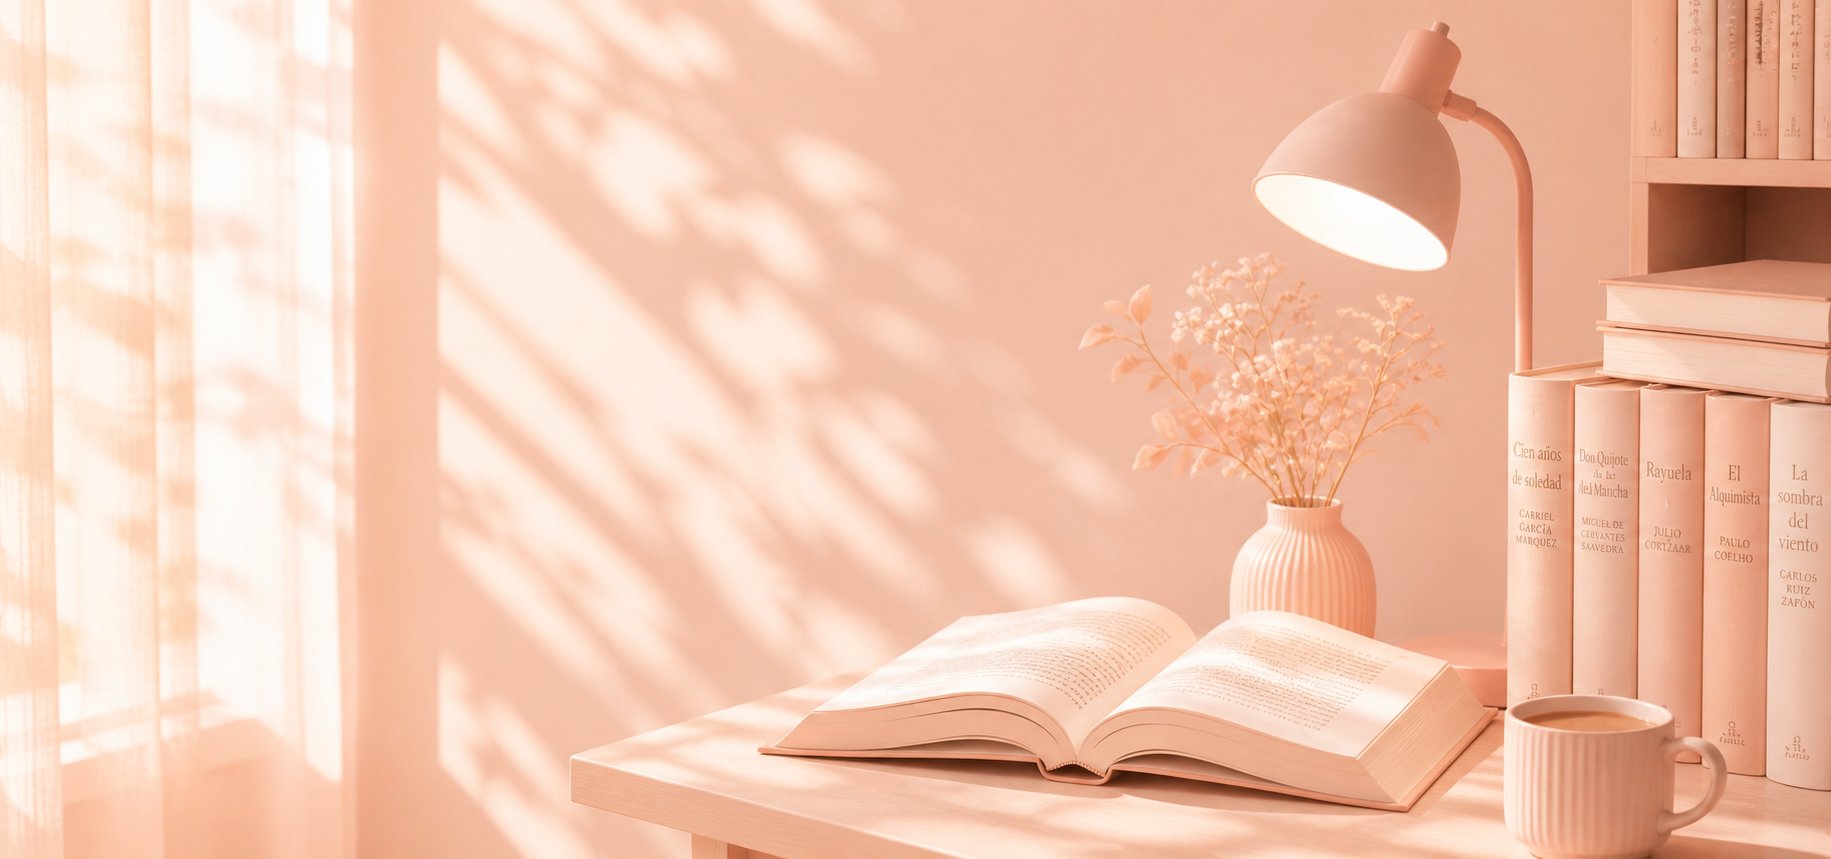
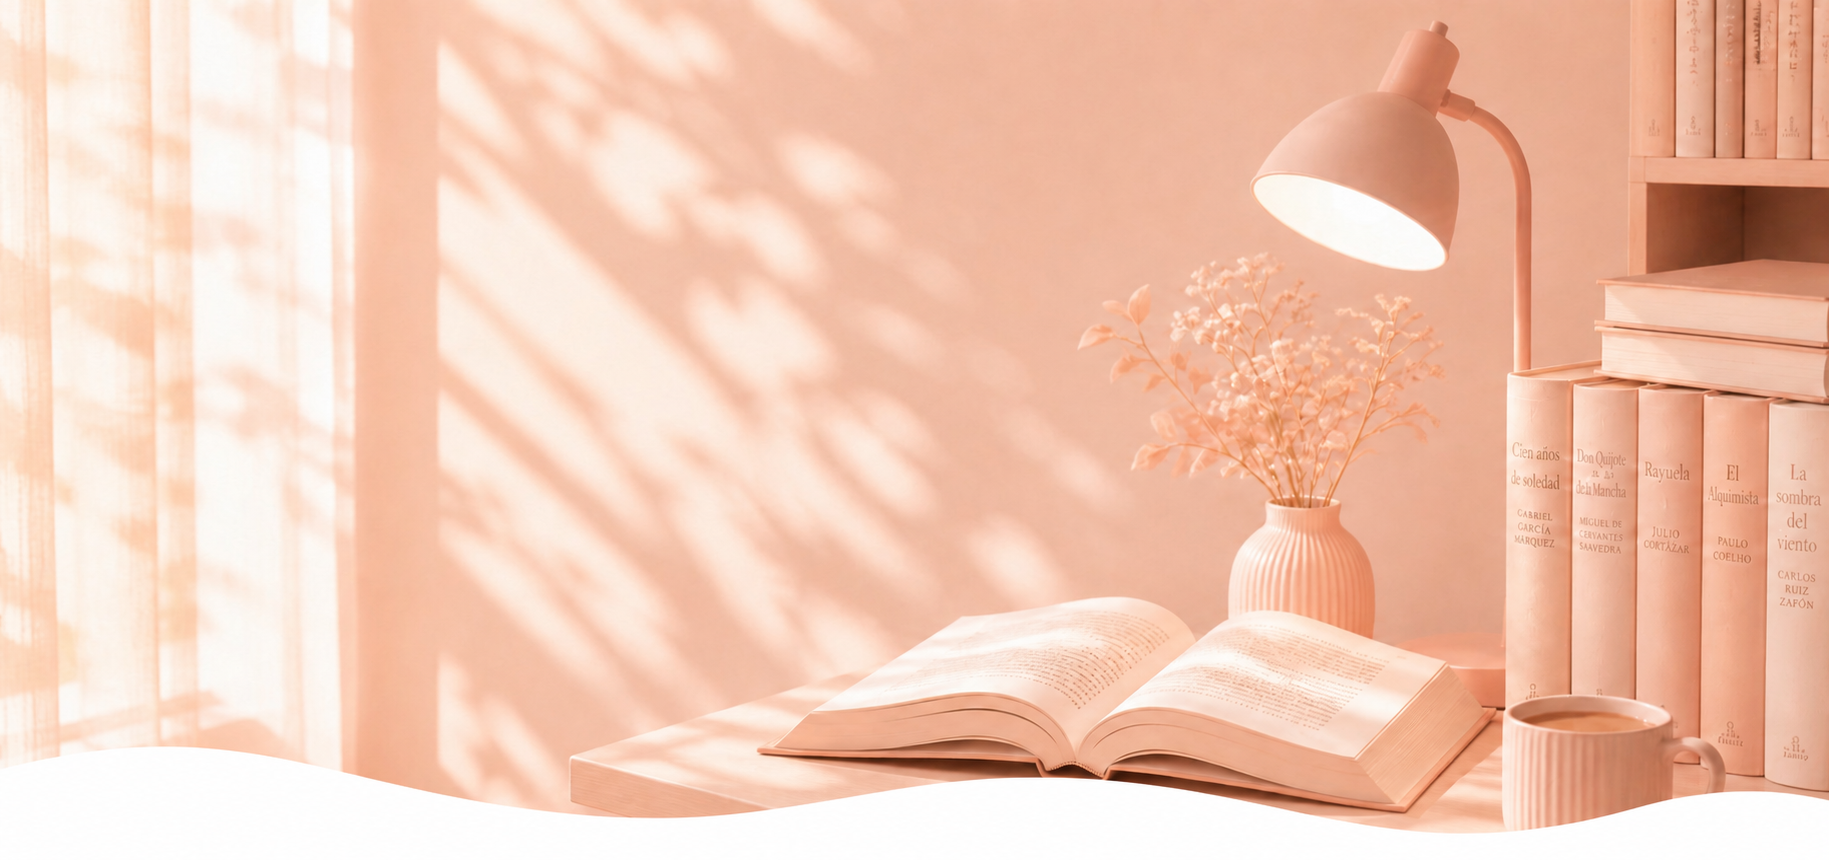
parte main de home page

diff --git a/src/usuario/reader/Reader.jsx b/src/usuario/reader/Reader.jsx
@@ -124,14 +124,6 @@ useGSAP(() => {
         </div>
       </div>
       <div className='parte-segunda'>
-        <div className="desplazamiento-wrapper">
-          <div className="desplazamiento-texto" ref={desplazamientoTxt}>
-            {titulos.map((titulo, index) => (
-              <span key={index} className="titulo-desplazamiento">{titulo}</span>
-            ))}
-          </div>
-        </div>
-
         {/* titulo */}
         <div className='parte-segundo-titulos'>
           {/* {[...titulo2].map((letra, index) => (
@@ -139,7 +131,6 @@ useGSAP(() => {
           ))} */}
           {/* <span className='parte-segundo-titulo'>Convierte tu historia en el próximo gran libro.</span> */}
         </div>
-        
         {/* libros */}
         <div className="carousel-container">
           <div className="carousel-track" ref={carouselRef}>
@@ -156,6 +147,14 @@ useGSAP(() => {
             ))}
           </div>
         </div>
+      </div>
+       {/* parte de desplazamiento */}
+      <div className="desplazamiento-wrapper">
+          <div className="desplazamiento-texto" ref={desplazamientoTxt}>
+            {titulos.map((titulo, index) => (
+              <span key={index} className="titulo-desplazamiento">{titulo}</span>
+            ))}
+          </div>
       </div>
     </div>
   );

diff --git a/src/usuario/reader/Reader.css b/src/usuario/reader/Reader.css
@@ -2,7 +2,6 @@
  .parte-titulo{
     background-image: url("../../img/bg-main.jpg");
     background-repeat: no-repeat;
-    background-attachment: fixed;
     background-size: cover;
     font-size: 30px;
     
@@ -54,8 +53,6 @@
     justify-content: center;
     align-items: center;
     text-align: center;
-
-    background: var(--bg-color-main8);
   }
 /* desplazamiento titulo */
 .desplazamiento-wrapper {